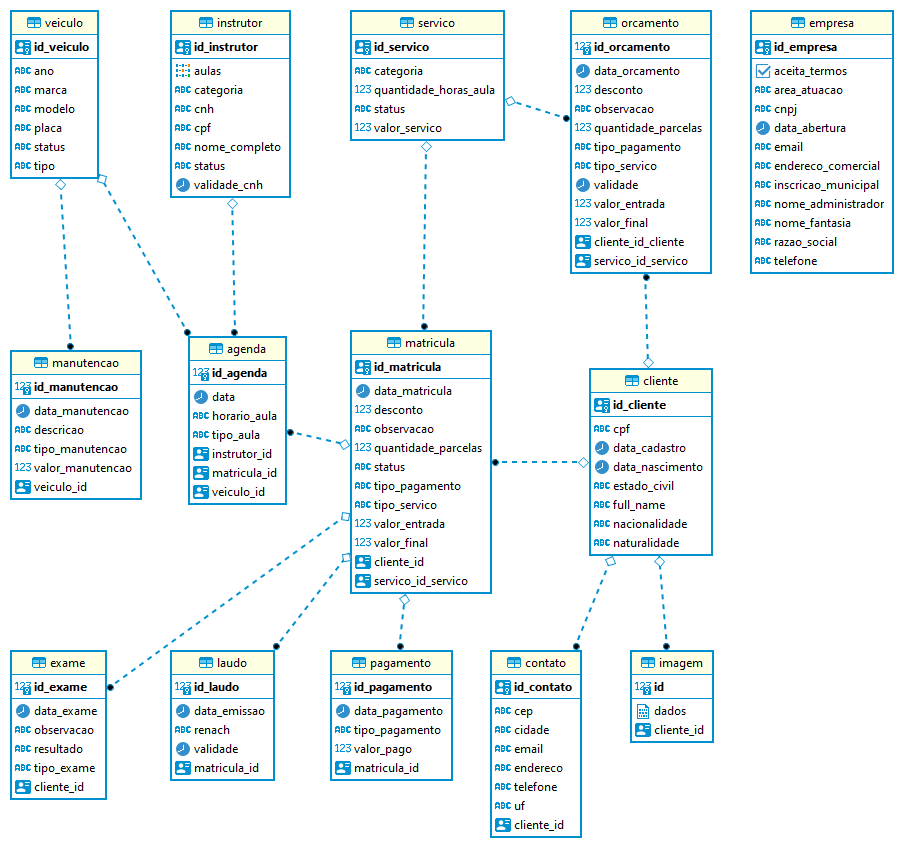
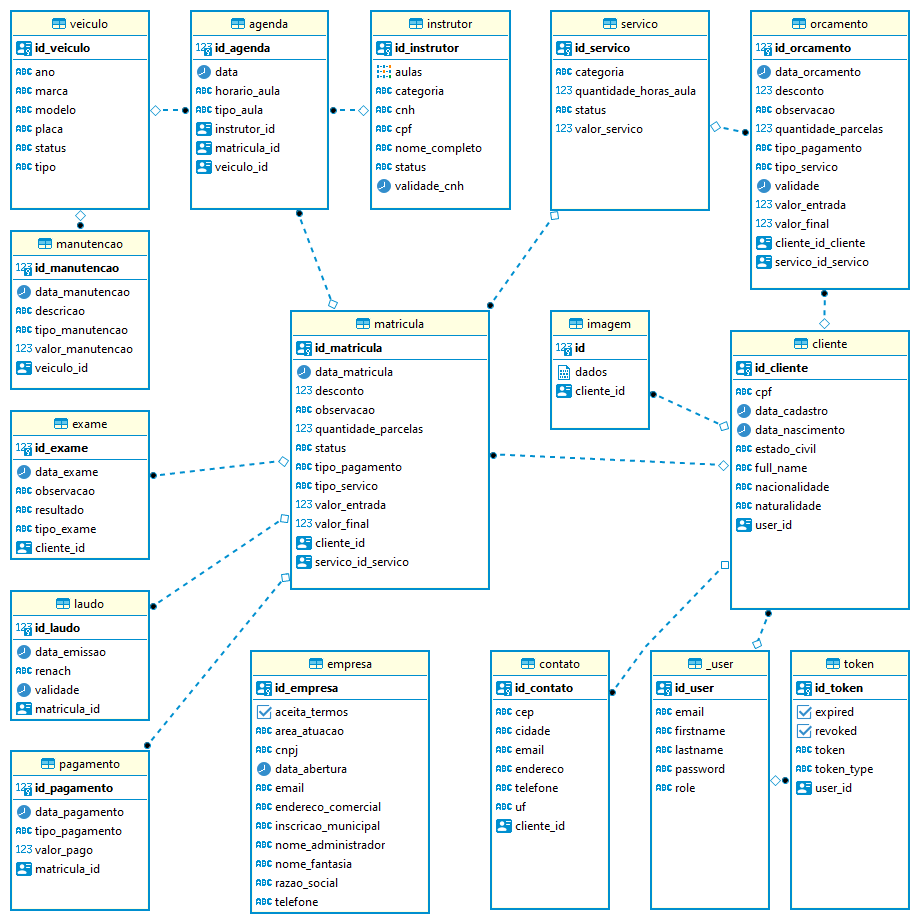
implementa log de acesso

Changed region(s): [[0.0, 0.0, 0.9912, 1.0], [0.7124, 0.9811, 0.8363, 1.0]]

diff --git a/src/main/java/com/rlti/autoescola/security/auth/service/AuthApplicationService.java b/src/main/java/com/rlti/autoescola/security/auth/service/AuthApplicationService.java
@@ -6,10 +6,12 @@ import com.rlti.autoescola.security.auth.api.AuthenticationRequest;
 import com.rlti.autoescola.security.auth.api.AuthenticationResponse;
 import com.rlti.autoescola.security.auth.api.RegisterRequest;
 import com.rlti.autoescola.security.config.JwtService;
+import com.rlti.autoescola.security.infra.AccessLogRepository;
 import com.rlti.autoescola.security.infra.UserRepository;
 import com.rlti.autoescola.security.token.Token;
 import com.rlti.autoescola.security.token.TokenRepository;
 import com.rlti.autoescola.security.token.TokenType;
+import com.rlti.autoescola.security.user.AccessLog;
 import com.rlti.autoescola.security.user.User;
 import jakarta.servlet.http.HttpServletRequest;
 import jakarta.servlet.http.HttpServletResponse;
@@ -33,6 +35,7 @@ public class AuthApplicationService implements AuthService {
     private final PasswordEncoder passwordEncoder;
     private final JwtService jwtService;
     private final AuthenticationManager authenticationManager;
+    private final AccessLogRepository accessLogRepository;
 
     @Override
     public Object register(RegisterRequest request) {
@@ -56,7 +59,7 @@ public class AuthApplicationService implements AuthService {
     }
 
     @Override
-    public Object authenticate(AuthenticationRequest request) {
+    public Object authenticate(AuthenticationRequest request, HttpServletRequest httpServletRequest) {
         log.info("[inicia] AuthApplicationService.authenticate");
         authenticationManager.authenticate(
                 new UsernamePasswordAuthenticationToken(
@@ -71,6 +74,7 @@ public class AuthApplicationService implements AuthService {
         revokeAllUserTokens(user);
         saveUserToken(user, jwtToken);
         log.info("[finaliza] AuthApplicationService.authenticate");
+        accessLogRepository.save(new AccessLog(user, httpServletRequest));
         return AuthenticationResponse.builder()
                 .accessToken(jwtToken)
                 .refreshToken(refreshToken)

diff --git a/src/main/java/com/rlti/autoescola/security/user/AccessLog.java b/src/main/java/com/rlti/autoescola/security/user/AccessLog.java
@@ -1,0 +1,37 @@
+package com.rlti.autoescola.security.user;
+
+import jakarta.persistence.*;
+import jakarta.servlet.http.HttpServletRequest;
+import lombok.AllArgsConstructor;
+import lombok.NoArgsConstructor;
+
+import java.time.LocalDateTime;
+
+@Entity
+@AllArgsConstructor
+@NoArgsConstructor
+
+public class AccessLog {
+    @Id
+    @GeneratedValue(strategy = GenerationType.AUTO)
+    private Long id;
+
+    @ManyToOne
+    @JoinColumn(name = "user_id")
+    private User user;
+
+    @Enumerated(EnumType.STRING)
+    private TipoAcesso accessType;
+
+    private LocalDateTime accessTime;
+
+    private String ipAddress;
+
+    public AccessLog(User user, HttpServletRequest httpServletRequest) {
+        this.user = user;
+        this.accessType = TipoAcesso.LOGIN;
+        this.accessTime = LocalDateTime.now();
+        this.ipAddress = httpServletRequest.getRemoteAddr();
+    }
+}
+

diff --git a/src/main/java/com/rlti/autoescola/security/auth/api/AuthRestController.java b/src/main/java/com/rlti/autoescola/security/auth/api/AuthRestController.java
@@ -25,9 +25,9 @@ public class AuthRestController implements AuthApi {
     }
 
     @Override
-    public ResponseEntity<AuthenticationResponse> authenticate(AuthenticationRequest request) {
+    public ResponseEntity<AuthenticationResponse> authenticate(AuthenticationRequest request, HttpServletRequest httpServletRequest) {
         log.info("[inicia] AuthRestController.authenticate");
-        AuthenticationResponse response = (AuthenticationResponse) authService.authenticate(request);
+        AuthenticationResponse response = (AuthenticationResponse) authService.authenticate(request, httpServletRequest);
         log.info("[finaliza] AuthRestController.authenticate");
         return ResponseEntity.ok(response);
     }

diff --git a/src/main/java/com/rlti/autoescola/security/auth/api/AuthApi.java b/src/main/java/com/rlti/autoescola/security/auth/api/AuthApi.java
@@ -22,7 +22,7 @@ public interface AuthApi {
 
     @PostMapping("/authenticate")
     @ResponseStatus(code = HttpStatus.CREATED)
-    public ResponseEntity<AuthenticationResponse> authenticate(@RequestBody AuthenticationRequest request);
+    public ResponseEntity<AuthenticationResponse> authenticate(@RequestBody AuthenticationRequest request, HttpServletRequest httpServletRequest);
 
     @PostMapping("/refresh-token")
     @ResponseStatus(code = HttpStatus.NO_CONTENT)

diff --git a/src/main/java/com/rlti/autoescola/security/auth/service/AuthService.java b/src/main/java/com/rlti/autoescola/security/auth/service/AuthService.java
@@ -10,5 +10,5 @@ import java.io.IOException;
 public interface AuthService {
     Object register(RegisterRequest request);
     void refreshToken(HttpServletRequest request, HttpServletResponse response) throws IOException;
-    Object authenticate(AuthenticationRequest request);
+    Object authenticate(AuthenticationRequest request, HttpServletRequest httpServletRequest);
 }

diff --git a/src/main/java/com/rlti/autoescola/security/infra/AccessLogRepository.java b/src/main/java/com/rlti/autoescola/security/infra/AccessLogRepository.java
@@ -1,0 +1,7 @@
+package com.rlti.autoescola.security.infra;
+
+import com.rlti.autoescola.security.user.AccessLog;
+import org.springframework.data.jpa.repository.JpaRepository;
+
+public interface AccessLogRepository  extends JpaRepository<AccessLog, Long> {
+}

diff --git a/src/main/java/com/rlti/autoescola/security/user/TipoAcesso.java b/src/main/java/com/rlti/autoescola/security/user/TipoAcesso.java
@@ -1,0 +1,7 @@
+package com.rlti.autoescola.security.user;
+
+public enum TipoAcesso {
+    LOGIN,
+    LOGOUT,
+    PAGE_VIEW
+}
